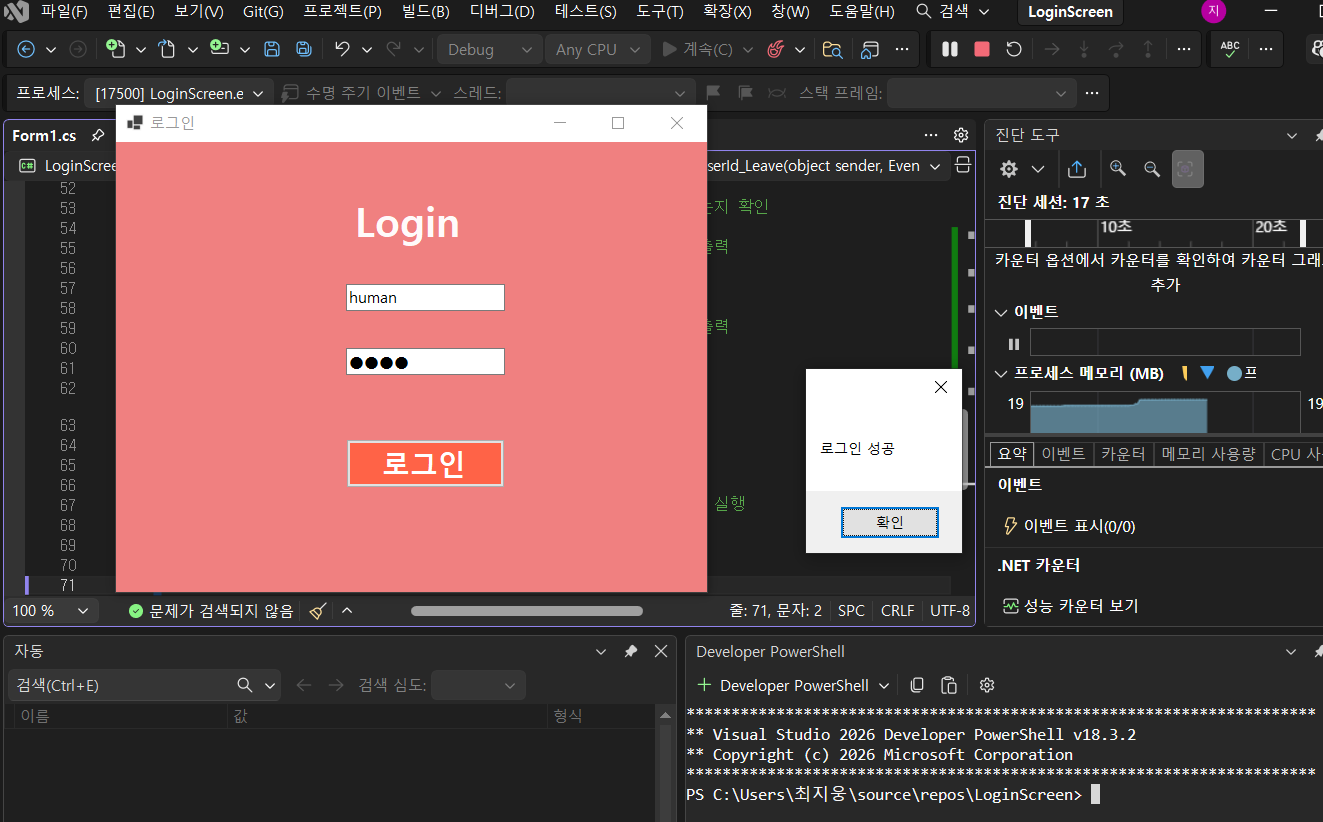
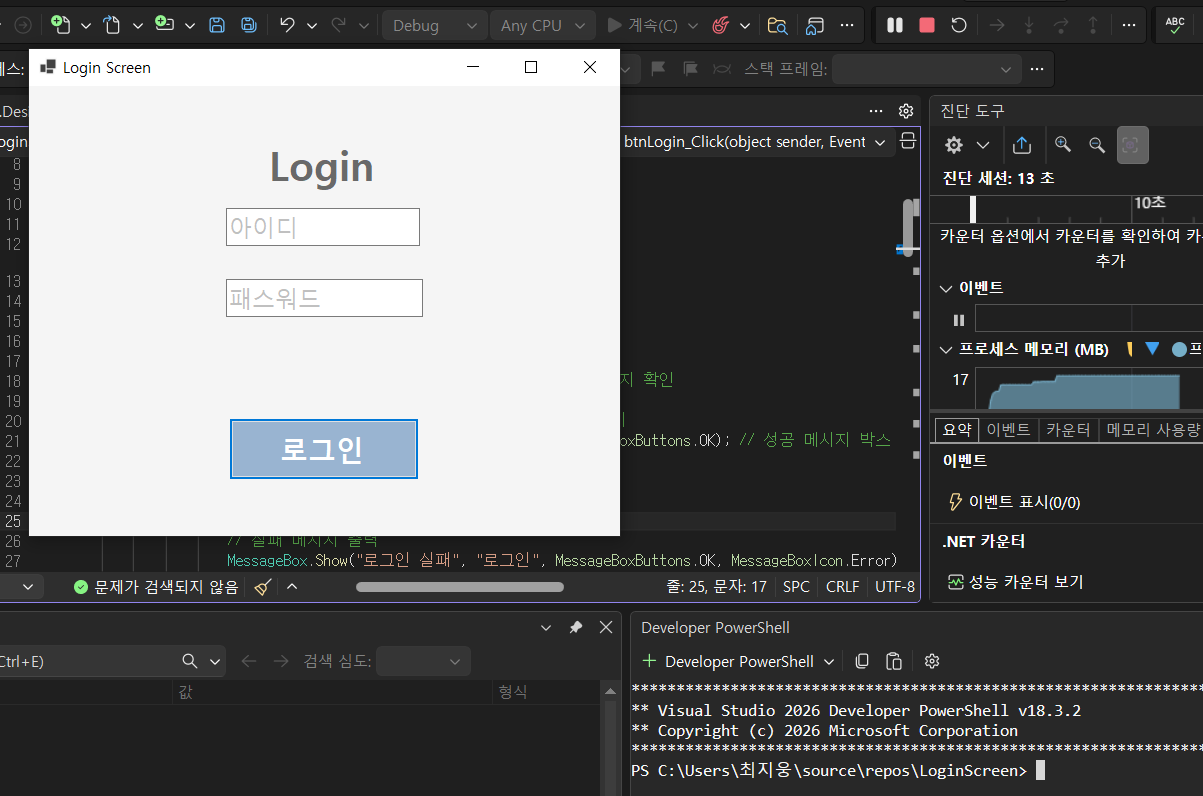
feat. 로그인 기본 기능 구현 완료

diff --git a/Form1.cs b/Form1.cs
@@ -22,7 +22,7 @@ namespace LoginScreen
             }
             else
             {
-                lblErrorMsg.Visible = true; // 에러 메시지 출력
+                lblErrorMsg.Visible = true;// 에러 메시지 보이기
                 // 실패 메시지 출력
                 MessageBox.Show("로그인 실패", "로그인", MessageBoxButtons.OK, MessageBoxIcon.Error);
                 

diff --git a/README.md b/README.md
@@ -1,8 +1,27 @@
 # (C# 코딩) LoginScreen
 
+## 개요
+- C# WinForms를 활용한 로그인 화면 구현
+- 1줄 소개: 아이디와 비밀번호를 입력하여 로그인 여부를 확인하는 프로그램
+
+- 사용한 플랫폼
+- C#, .NET Windows Forms, Visual Studio, GitHub
+
+- 사용한 컨트롤
+- Label, TextBox, Button, CheckBox
+
+- 구현한 기능
+- TextBox를 이용한 아이디 및 비밀번호 입력 기능
+- Placeholder를 활용한 입력 안내 기능
+- 비밀번호 입력 시 문자 가리기 기능
+- 로그인 성공/실패 판별 기능 (조건문 && 사용)
+- 에러 메시지를 Label로 화면에 표시 (Visible 속성 활용)
+- Enter 키로 입력 흐름 제어 및 로그인 실행
+
 ## 실행 화면 (과제1)
 - 과제1 코드의 실행 스크린샷
 ![과제1 실행화면](img/1.png)
+![과제1 실행화면](img/2.png)
 
 - 과제 내용
 - Label 1개, TextBox 2개, Button 1개를 배치하여 로그인 화면을 구성
@@ -18,7 +37,7 @@
 
 ## 실행 화면 (과제2)
 - 과제2 코드의 실행 스크린샷
-![과제2 실행화면](img/2.png)
+![과제2 실행화면](img/3.png)
 
 - 과제 내용
 - 로그인 실패 시 MessageBox 대신 화면에 에러 메시지를 표시
